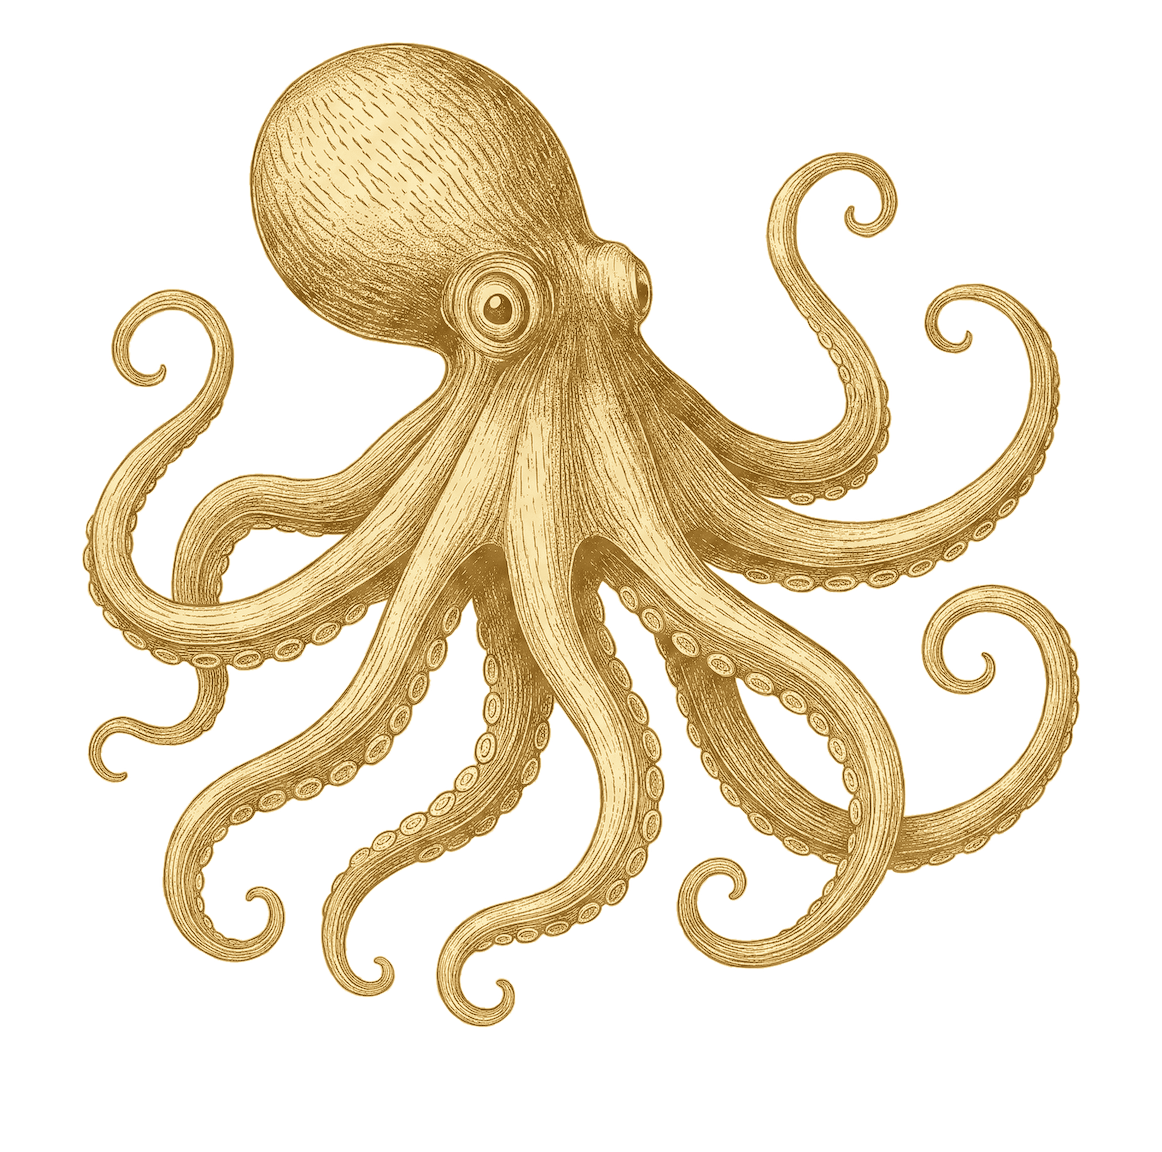
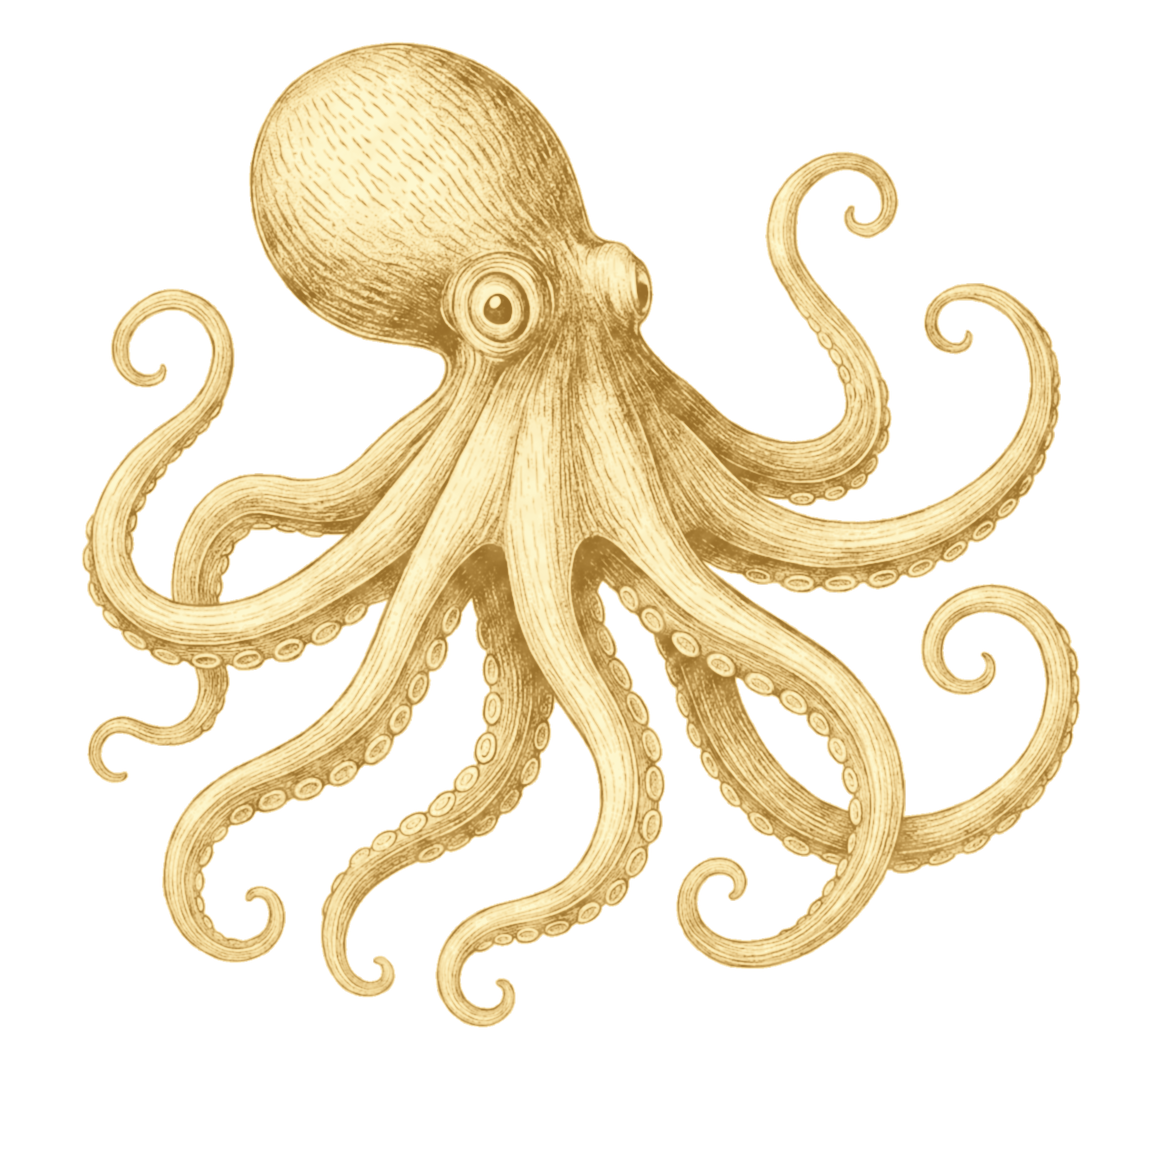
Life: portrait, octopus and flower toned like the Jacquard loom
Claude-Session: https://claude.ai/code/session_016R5T8HULVGKfAE3PW3pdJb

Changed region(s): [[0.062, 0.0312, 0.9294, 0.9062]]

diff --git a/site/life/index.html b/site/life/index.html
@@ -63,7 +63,7 @@
 <p class="life-description">I’m passionate about <strong>design, the open web, open source, robotics, ecology &amp; science.</strong> When I’m away from the screen, you’ll usually find me lost in a book or wandering with my dog friends in the forest.</p>
         </div>
         <div class="life-header-right">
-            <img src="/img/life/mariona-engraving.png?v=t4" alt="Engraving-style portrait of Mariona smiling, with long wavy hair and a coat, drawn in sepia and gold" class="linus-image-school life-portrait">
+            <img src="/img/life/mariona-engraving.png?v=t5" alt="Engraving-style portrait of Mariona smiling, with long wavy hair and a coat, drawn in sepia and gold" class="linus-image-school life-portrait">
         </div>
     </div>
 </section>
@@ -84,7 +84,7 @@
         <div class="journal-entry">
             <a href="/life/animals/">
                 <div class="life-image-container">
-                    <img src="../img/life/animal-v2.png?v=t1" alt="">
+                    <img src="../img/life/animal-v2.png?v=t2" alt="">
                     <span class="tag-overlay">ANIMALS</span>
                 </div>
             </a>
@@ -92,7 +92,7 @@
         <div class="journal-entry">
             <a href="/life/nature/">
                 <div class="life-image-container">
-                    <img src="../img/life/nature-v2.png?v=t1" alt="">
+                    <img src="../img/life/nature-v2.png?v=t2" alt="">
                     <span class="tag-overlay">NATURE</span>
                 </div>
             </a>
